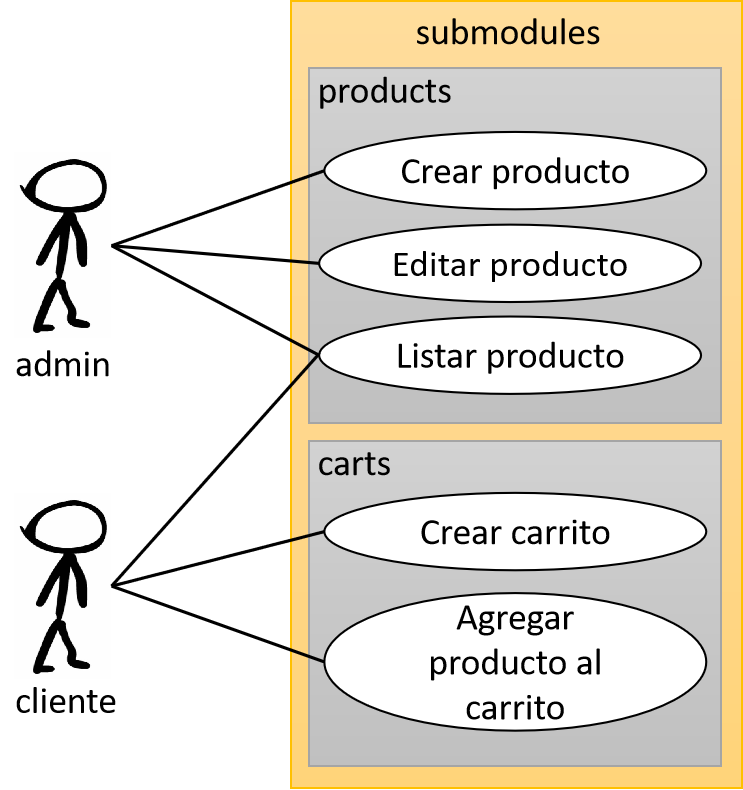
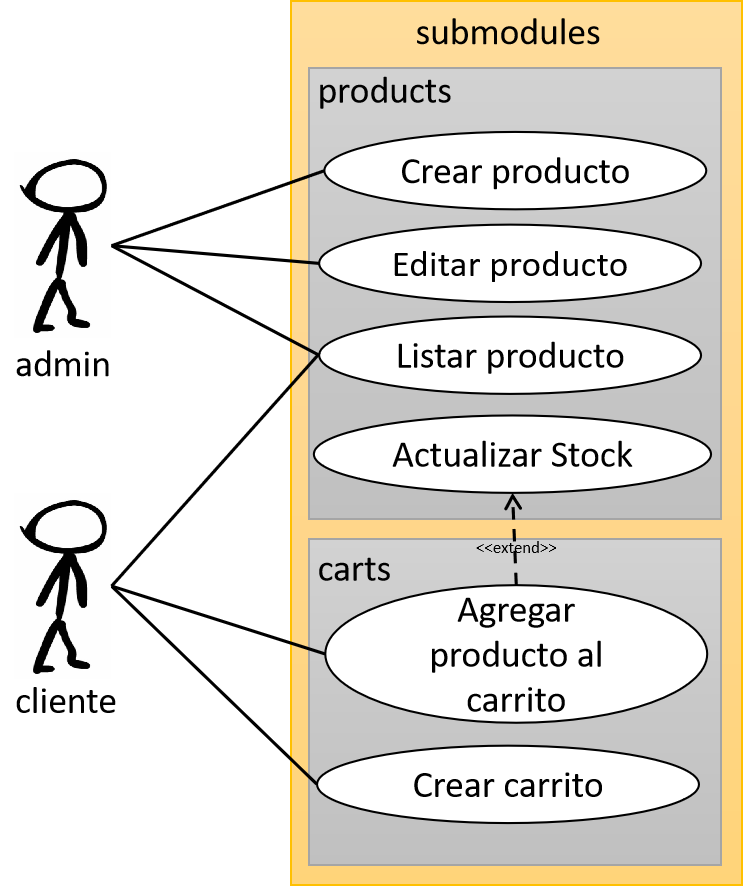
Ajustando modulo de Shopping

diff --git a/src/main/java/com/evobank/shopping/submodules/products/README.md b/src/main/java/com/evobank/shopping/submodules/products/README.md
@@ -1,0 +1,24 @@
+# Submodulo PRODUCTS
+### Diagrama de caso de uso del modulo
+![Diagrama de casos de uso del submodulo carts](https://github.com/gotorresevo/proyecto-base-spring-boot/raw/master/assets/UseCasesSubmoduleCarts.png "Diagrama de casos del submodulo carts")
+
+### Arquitectura
+![Arquitectura del submodulo](https://github.com/gotorresevo/proyecto-base-spring-boot/raw/master/assets/ArquitecturaComponent.png "Arquitectura del submodulo")
+
+### Diagrama de secuencia: Crear Carrito
+![Diagrama de secuencia CREAR CARRITO](https://github.com/gotorresevo/proyecto-base-spring-boot/raw/master/assets/SequenceArchitectureCreateCart.png "Flujo completo desde el llamado al command hasta la publicacion del evento")
+
+Los objetos resaltados en AMARILLO estan definidos en el diagrama como interfaces JAVA, ya que mediante la capacidad de SPRING de "Inversion de Dependencias" se inyectan sus implementaciones. Para el caso de "ICartsRepository" Dicha implementación esta ubicada en el paquete "infrastructure".  
+
+Para "ICommandBus" su implementación "com.evobank.shopping.infrastructure.bus.command.InMemoryCommandBus"  
+Para "IQueryBus" su implementación "com.evobank.shopping.infrastructure.bus.query.InMemoryQueryBus"  
+Para "IEventBus" su implementacion "com.evobank.shopping.infrastructure.bus.event.SpringApplicationIEventBus"  
+
+### Enlaces de interes
+
+[Inicio](https://github.com/gotorresevo/proyecto-base-spring-boot)  
+[Ver como se implemento el modulo Shopping](https://github.com/gotorresevo/proyecto-base-spring-boot/tree/master/src/main/java/com/evobank/shopping)  
+[Ver como se implemento el submodulo CARTS del modulo Shopping](https://github.com/gotorresevo/proyecto-base-spring-boot/tree/master/src/main/java/com/evobank/shopping/submodules/carts)  
+[Ver como se implemento las pruebas unitarias del Controlador para CREAR CARRITO](https://github.com/gotorresevo/proyecto-base-spring-boot/tree/master/src/test/java/com/evobank/shopping/controllers)  
+[Ver como se implemento las pruebas unitarias del caso de uso CREAR CARRITO](https://github.com/gotorresevo/proyecto-base-spring-boot/tree/master/src/test/java/com/evobank/shopping/submodules)  
+[Configuracion de Sonar en local](https://github.com/gotorresevo/proyecto-base-spring-boot/tree/master/sonarqube)  
